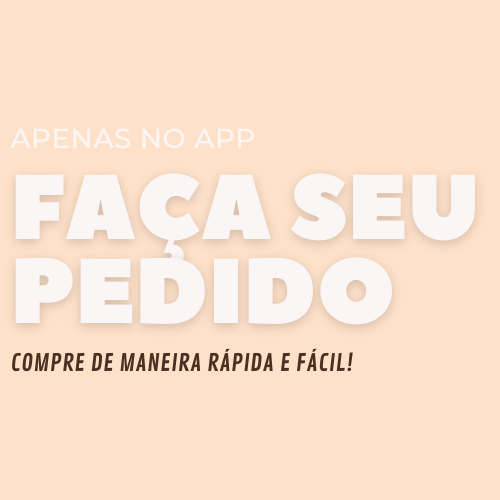
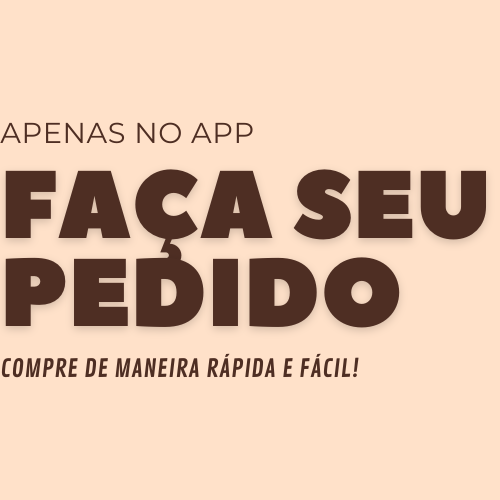
página do app finalizada, linkada apenas na index

diff --git a/css/responsive.css b/css/responsive.css
@@ -5,7 +5,7 @@
 
 @media (min-width: 1200px) and (max-width: 1342px) {
     .banner_main{
-        width: 100;
+        width: 100%;
     }
     /*nada para alterar aqui por enquanto*/
 }
@@ -336,4 +336,35 @@
         height: 44px;
         margin-top: -50px;
     }
+
+    .img-luh{
+        height: 100%;
+        width: 80%;
+        background-color: white;
+        margin-right: 10%;
+        margin-left: 10%;  
+    }
+    
+    .project .quemsomos-container{
+        border-radius: 5px;
+        border: 2px solid;
+        border-color: #EED0B3;
+        height: 100%;
+        width: 100%;
+        background-color: white;
+        margin-right: 10%;
+        margin-left: 10%;
+        margin-top: 20px;
+       
+      }
+      .project-app .app-text{
+        display: none !important;
+    }
+    
+    .project-app .app-img{
+        margin-right: 5px;
+        width: 100%;
+    }
+    
 }
+

diff --git a/html/quemsomos.html b/html/quemsomos.html
@@ -100,7 +100,7 @@
             </div>
           </div>
           <div class="quemsomos-container">
-            <h1>A CONFEITARIA</h1>
+            <h1>A CONFEITEIRA</h1>
             <h2>Meu nome é Luana Silva, tenho 29 anos e estou no ramo da confeitaria três anos. Sou completamente
               apaixonada pelo que faço desde comecei a vender pão de mel e trufa no meu antigo trabalho. A confeitaria
               me salvou e hoje vivo e estudo para isso, sempre buscando aprimorar meus dons e acresentar mais coisas ao

diff --git a/css/style_quemsomos.css b/css/style_quemsomos.css
@@ -1,14 +1,18 @@
 .img-luh{
-    border-radius: 5px;
+    border-radius: 20px;
     height: 100%;
     width: 100%;
+    margin-left: 15px;
+    background-color: red;
     
 }
 
-.quemsomos-container{
+.project .quemsomos-container{
     border-radius: 5px;
     border: 2px solid;
     border-color: #EED0B3;
     height: 100%;
     width: 50%;
+    background-color: white;
+    margin-left: 70px;
   }

diff --git a/css/style_app.css b/css/style_app.css
@@ -1,12 +1,13 @@
-.project {
-    background-size: 100% 100%;
+.project-app {
     background-color: #FFE1C9;
 }
 
-.project .app-text{
+.project-app .app-text{
+    margin-left: 33px;
+    width: 120%;
 }
 
-.project .app-img{
-    background-color: blueviolet;
-    margin-left: 150px;
+.project-app .app-img{
+    margin-left: 100px;
+    width: 110%;
 }

diff --git a/html/app.html b/html/app.html
@@ -87,7 +87,7 @@
     </div>
     </div>
   </header>
-  <div class="project">
+  <div class="project-app">
     <div class="container">
         <div class="row">
           <div class="col-md-5">
